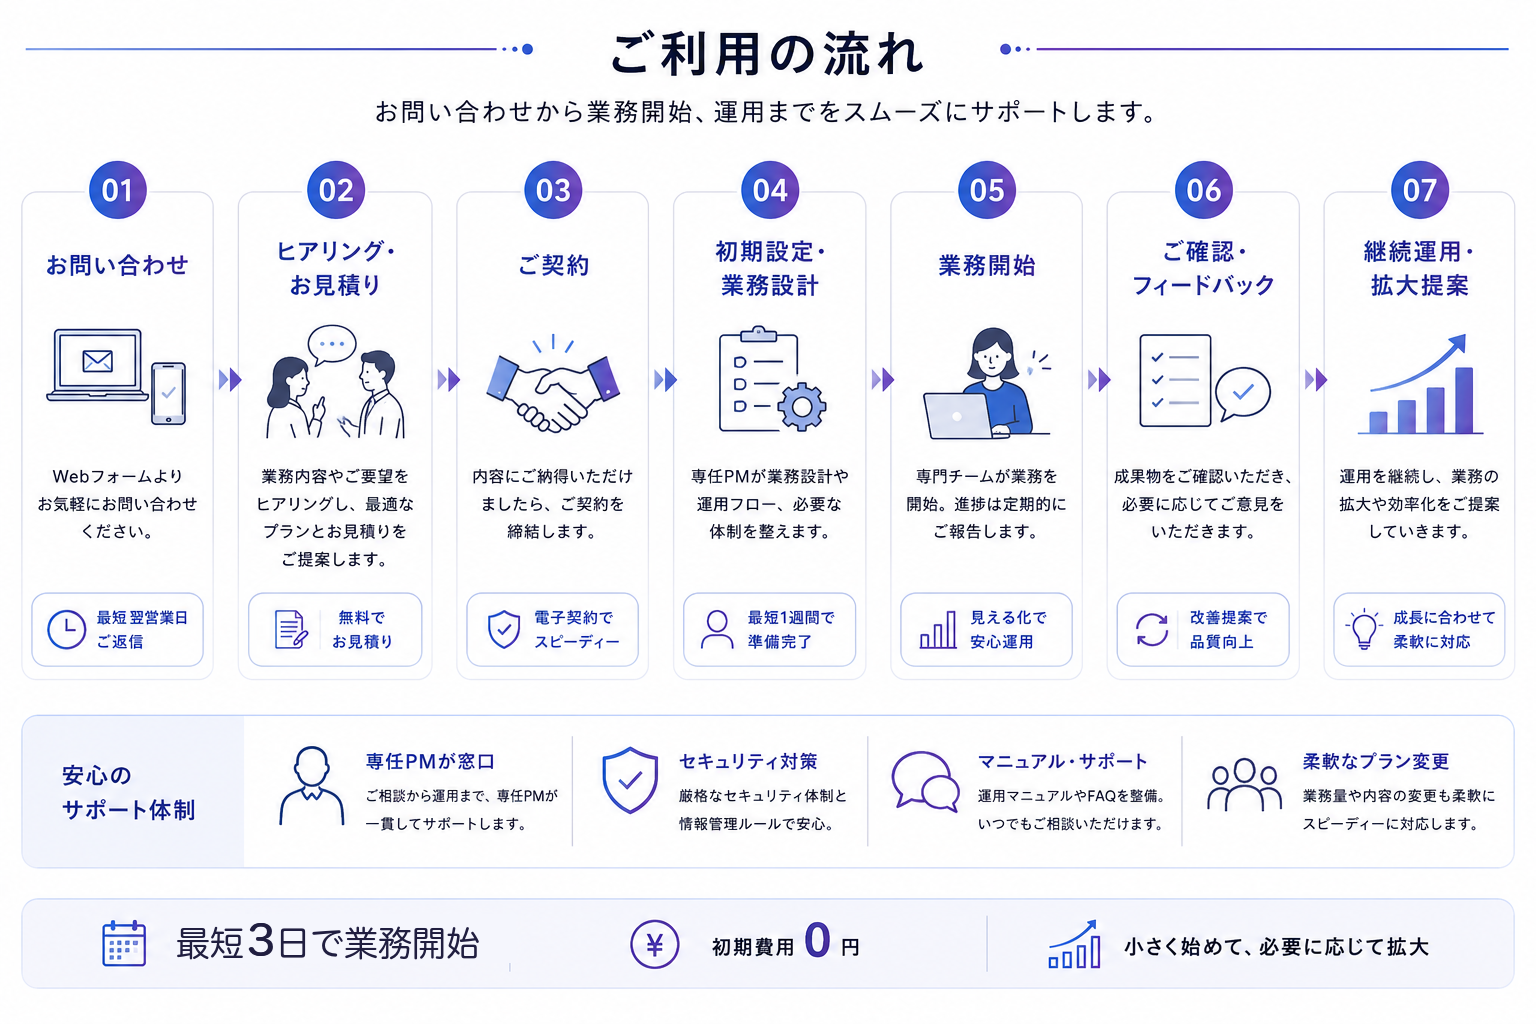
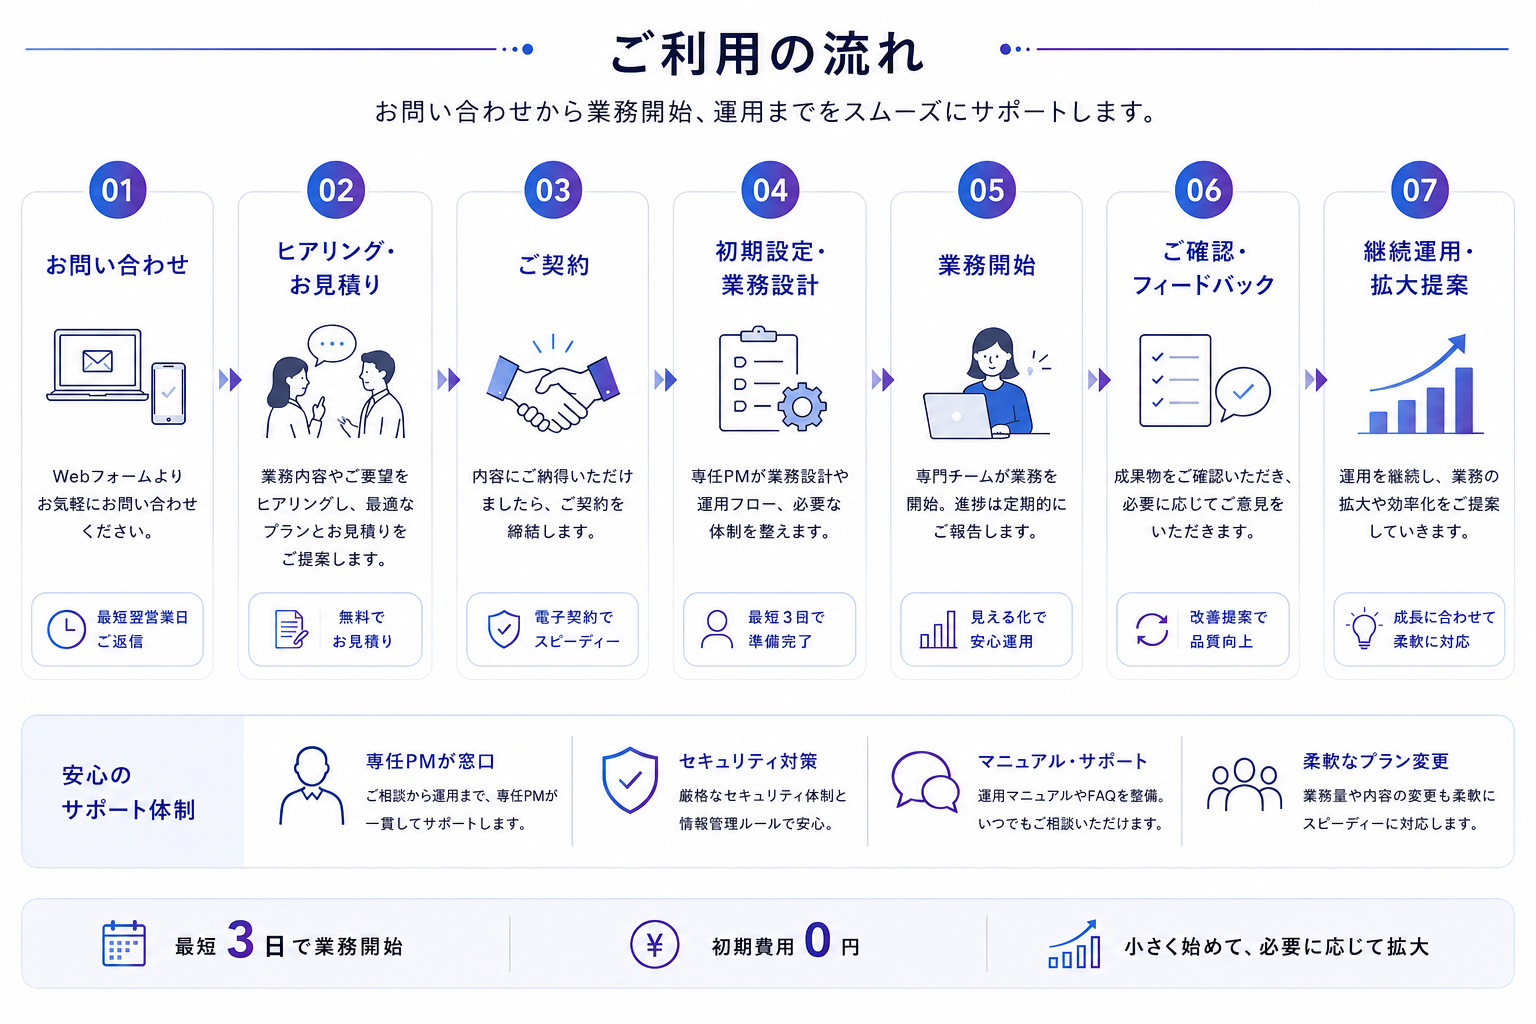
PROCESS: replace 図解09 with all-3日 version (STEP04 準備完了 も最短3日に統一)
- ユーザー再生成の図解09に差し替え：STEP04「最短3日で準備完了」＋下部「最短3日で業務開始」
- alt「最短1週間で準備完了」→「最短3日で準備完了」に更新（画像と一致）
- これで図解09内・LP全体の着手/準備/業務開始が最短3日で完全統一（1週間の残存ゼロ）

diff --git a/index.html b/index.html
@@ -364,7 +364,7 @@
 <section class="process">
   <div class="wrap">
     <figure class="figblock">
-      <img class="figimg" src="assets/figure-09.png" width="1536" height="1024" loading="lazy" decoding="async" alt="SIRIUSのご利用の流れを示す図解。お問い合わせから業務開始、運用までをスムーズにサポートします。01 お問い合わせ：Webフォームよりお気軽にお問い合わせください（最短翌営業日ご返信）。02 ヒアリング・お見積り：業務内容やご要望をヒアリングし、最適なプランとお見積りをご提案します（無料でお見積り）。03 ご契約：内容にご納得いただけましたら、ご契約を締結します（電子契約でスピーディー）。04 初期設定・業務設計：専任PMが業務設計や運用フロー、必要な体制を整えます（最短1週間で準備完了）。05 業務開始：専門チームが業務を開始し、進捗は定期的にご報告します（見える化で安心運用）。06 ご確認・フィードバック：成果物をご確認いただき、必要に応じてご意見をいただきます（改善提案で品質向上）。07 継続運用・拡大提案：運用を継続し、業務の拡大や効率化をご提案します（成長に合わせて柔軟に対応）。安心のサポート体制は、専任PMが窓口・セキュリティ対策・マニュアル/サポート・柔軟なプラン変更。最短3日で業務開始、初期費用0円、小さく始めて必要に応じて拡大できます。" />
+      <img class="figimg" src="assets/figure-09.png" width="1536" height="1024" loading="lazy" decoding="async" alt="SIRIUSのご利用の流れを示す図解。お問い合わせから業務開始、運用までをスムーズにサポートします。01 お問い合わせ：Webフォームよりお気軽にお問い合わせください（最短翌営業日ご返信）。02 ヒアリング・お見積り：業務内容やご要望をヒアリングし、最適なプランとお見積りをご提案します（無料でお見積り）。03 ご契約：内容にご納得いただけましたら、ご契約を締結します（電子契約でスピーディー）。04 初期設定・業務設計：専任PMが業務設計や運用フロー、必要な体制を整えます（最短3日で準備完了）。05 業務開始：専門チームが業務を開始し、進捗は定期的にご報告します（見える化で安心運用）。06 ご確認・フィードバック：成果物をご確認いただき、必要に応じてご意見をいただきます（改善提案で品質向上）。07 継続運用・拡大提案：運用を継続し、業務の拡大や効率化をご提案します（成長に合わせて柔軟に対応）。安心のサポート体制は、専任PMが窓口・セキュリティ対策・マニュアル/サポート・柔軟なプラン変更。最短3日で業務開始、初期費用0円、小さく始めて必要に応じて拡大できます。" />
     </figure>
   </div>
 </section>
